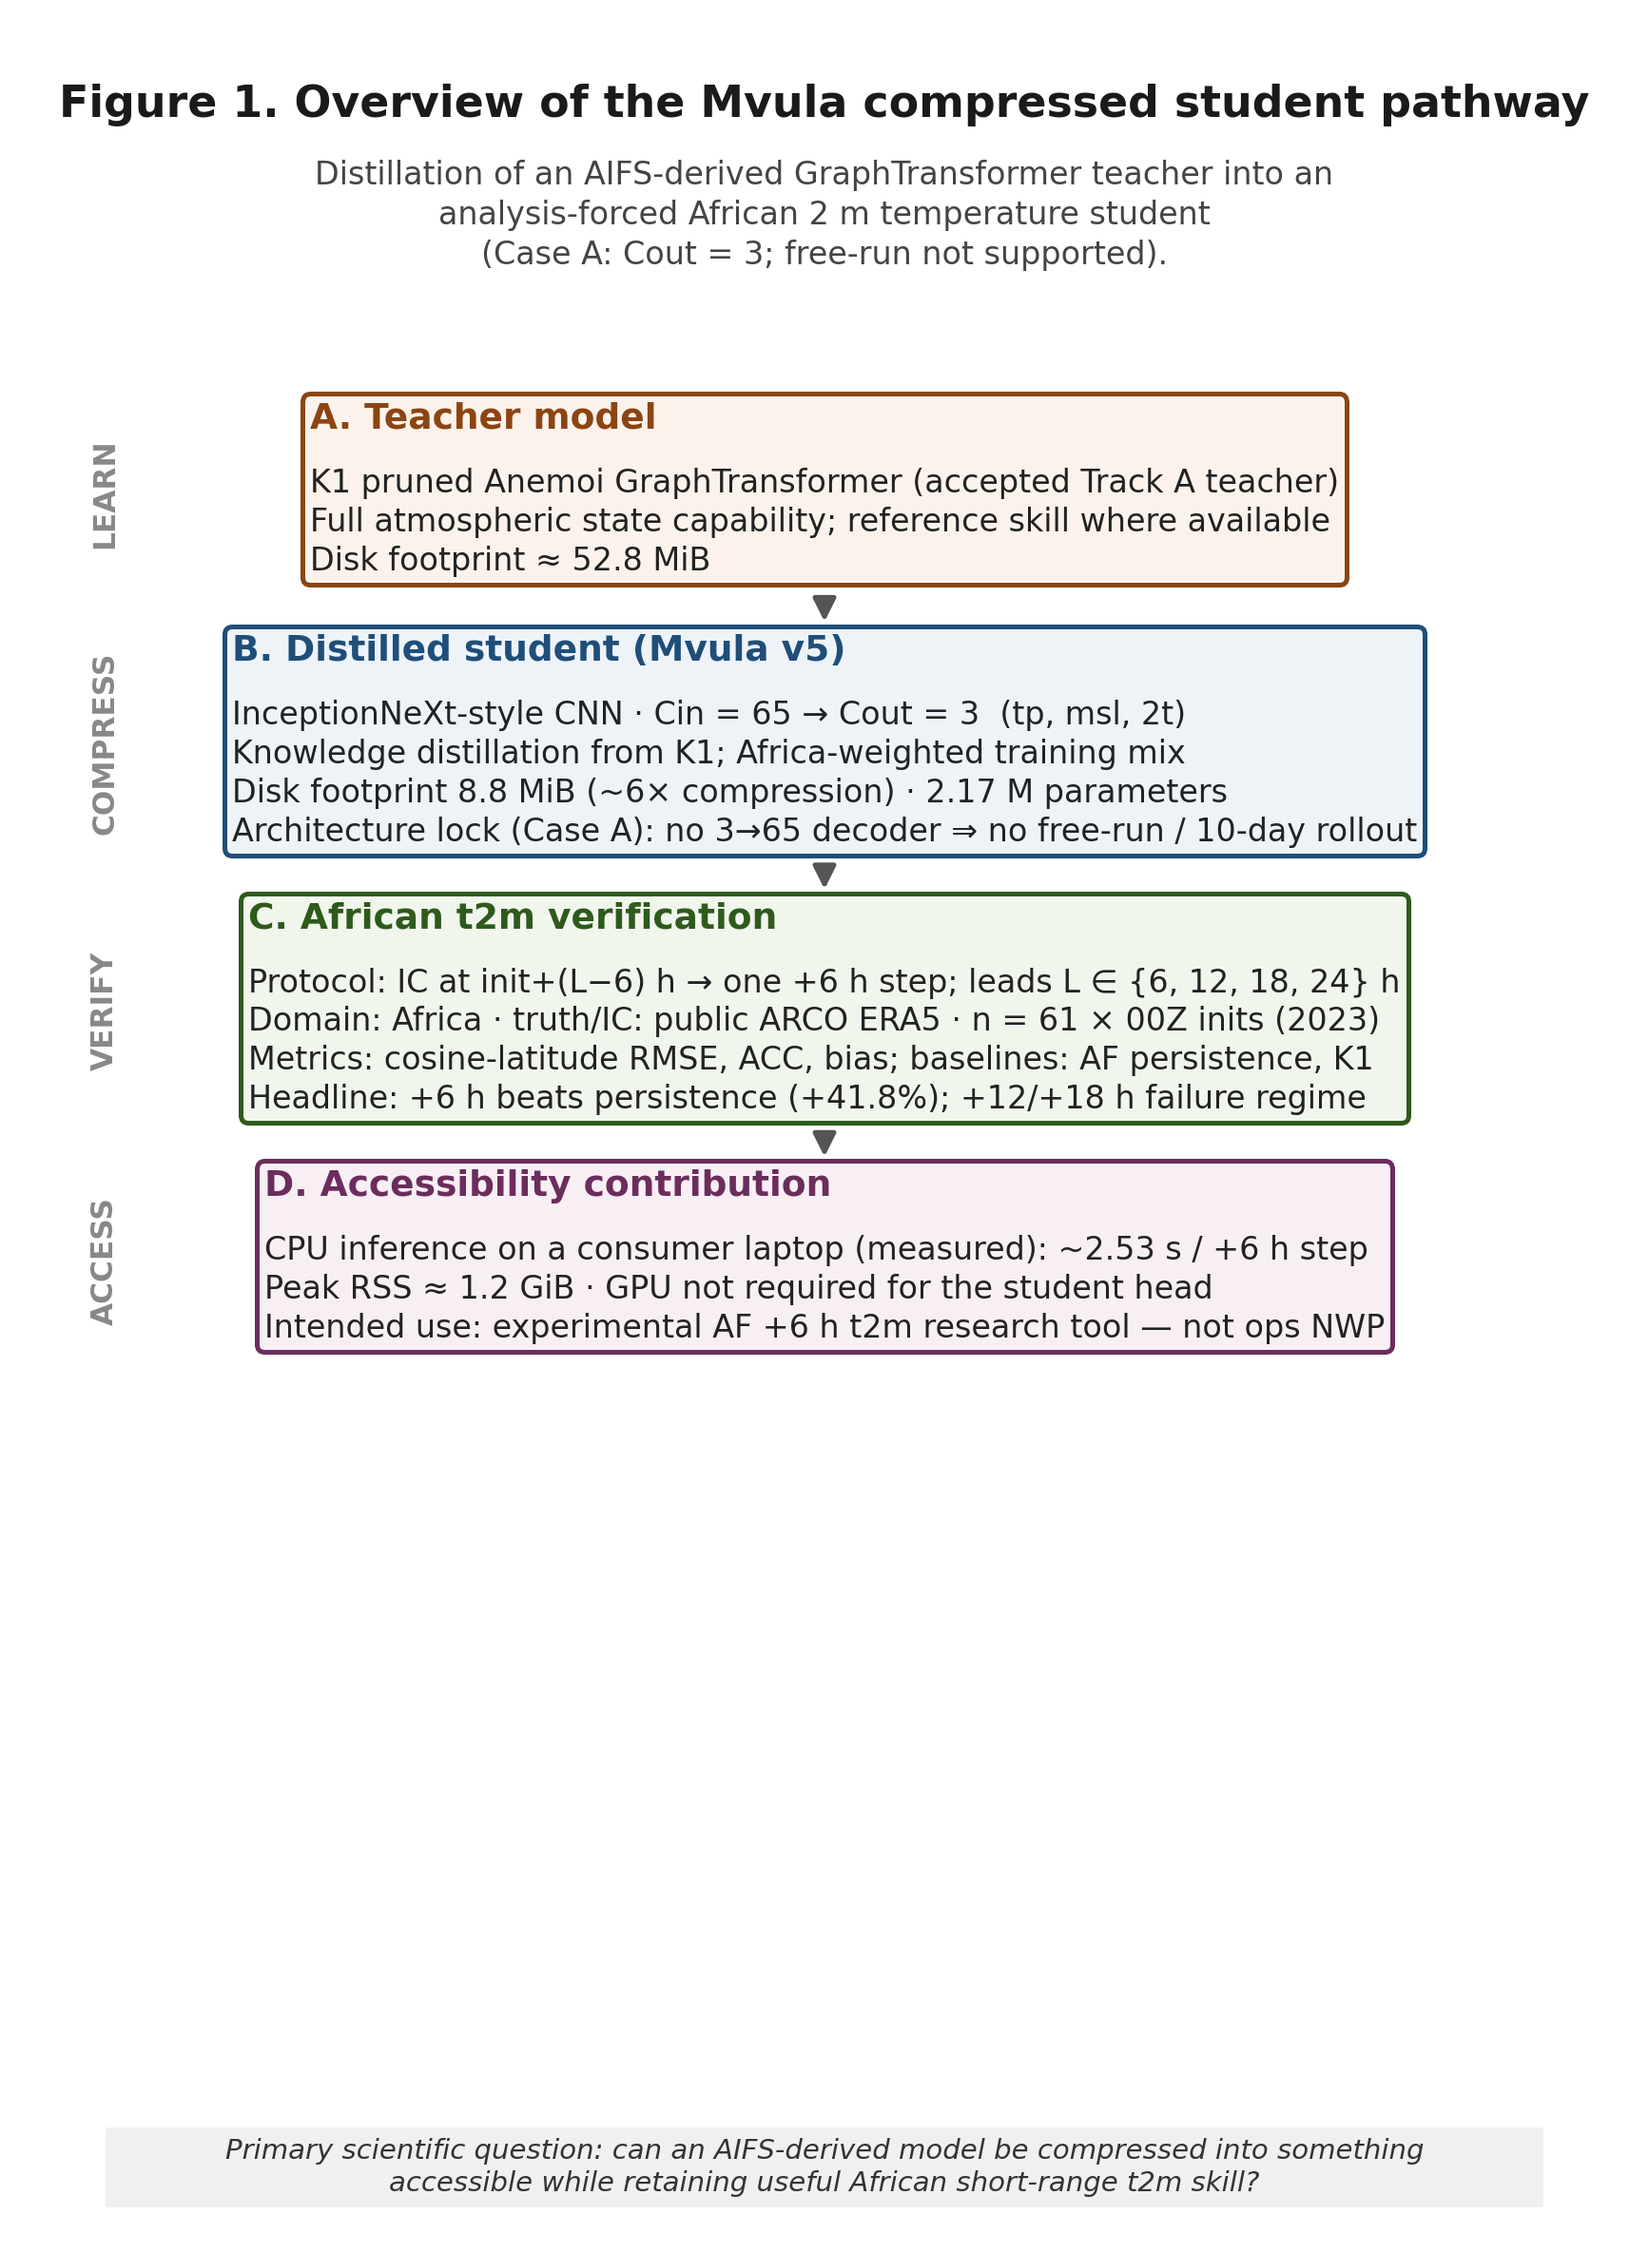
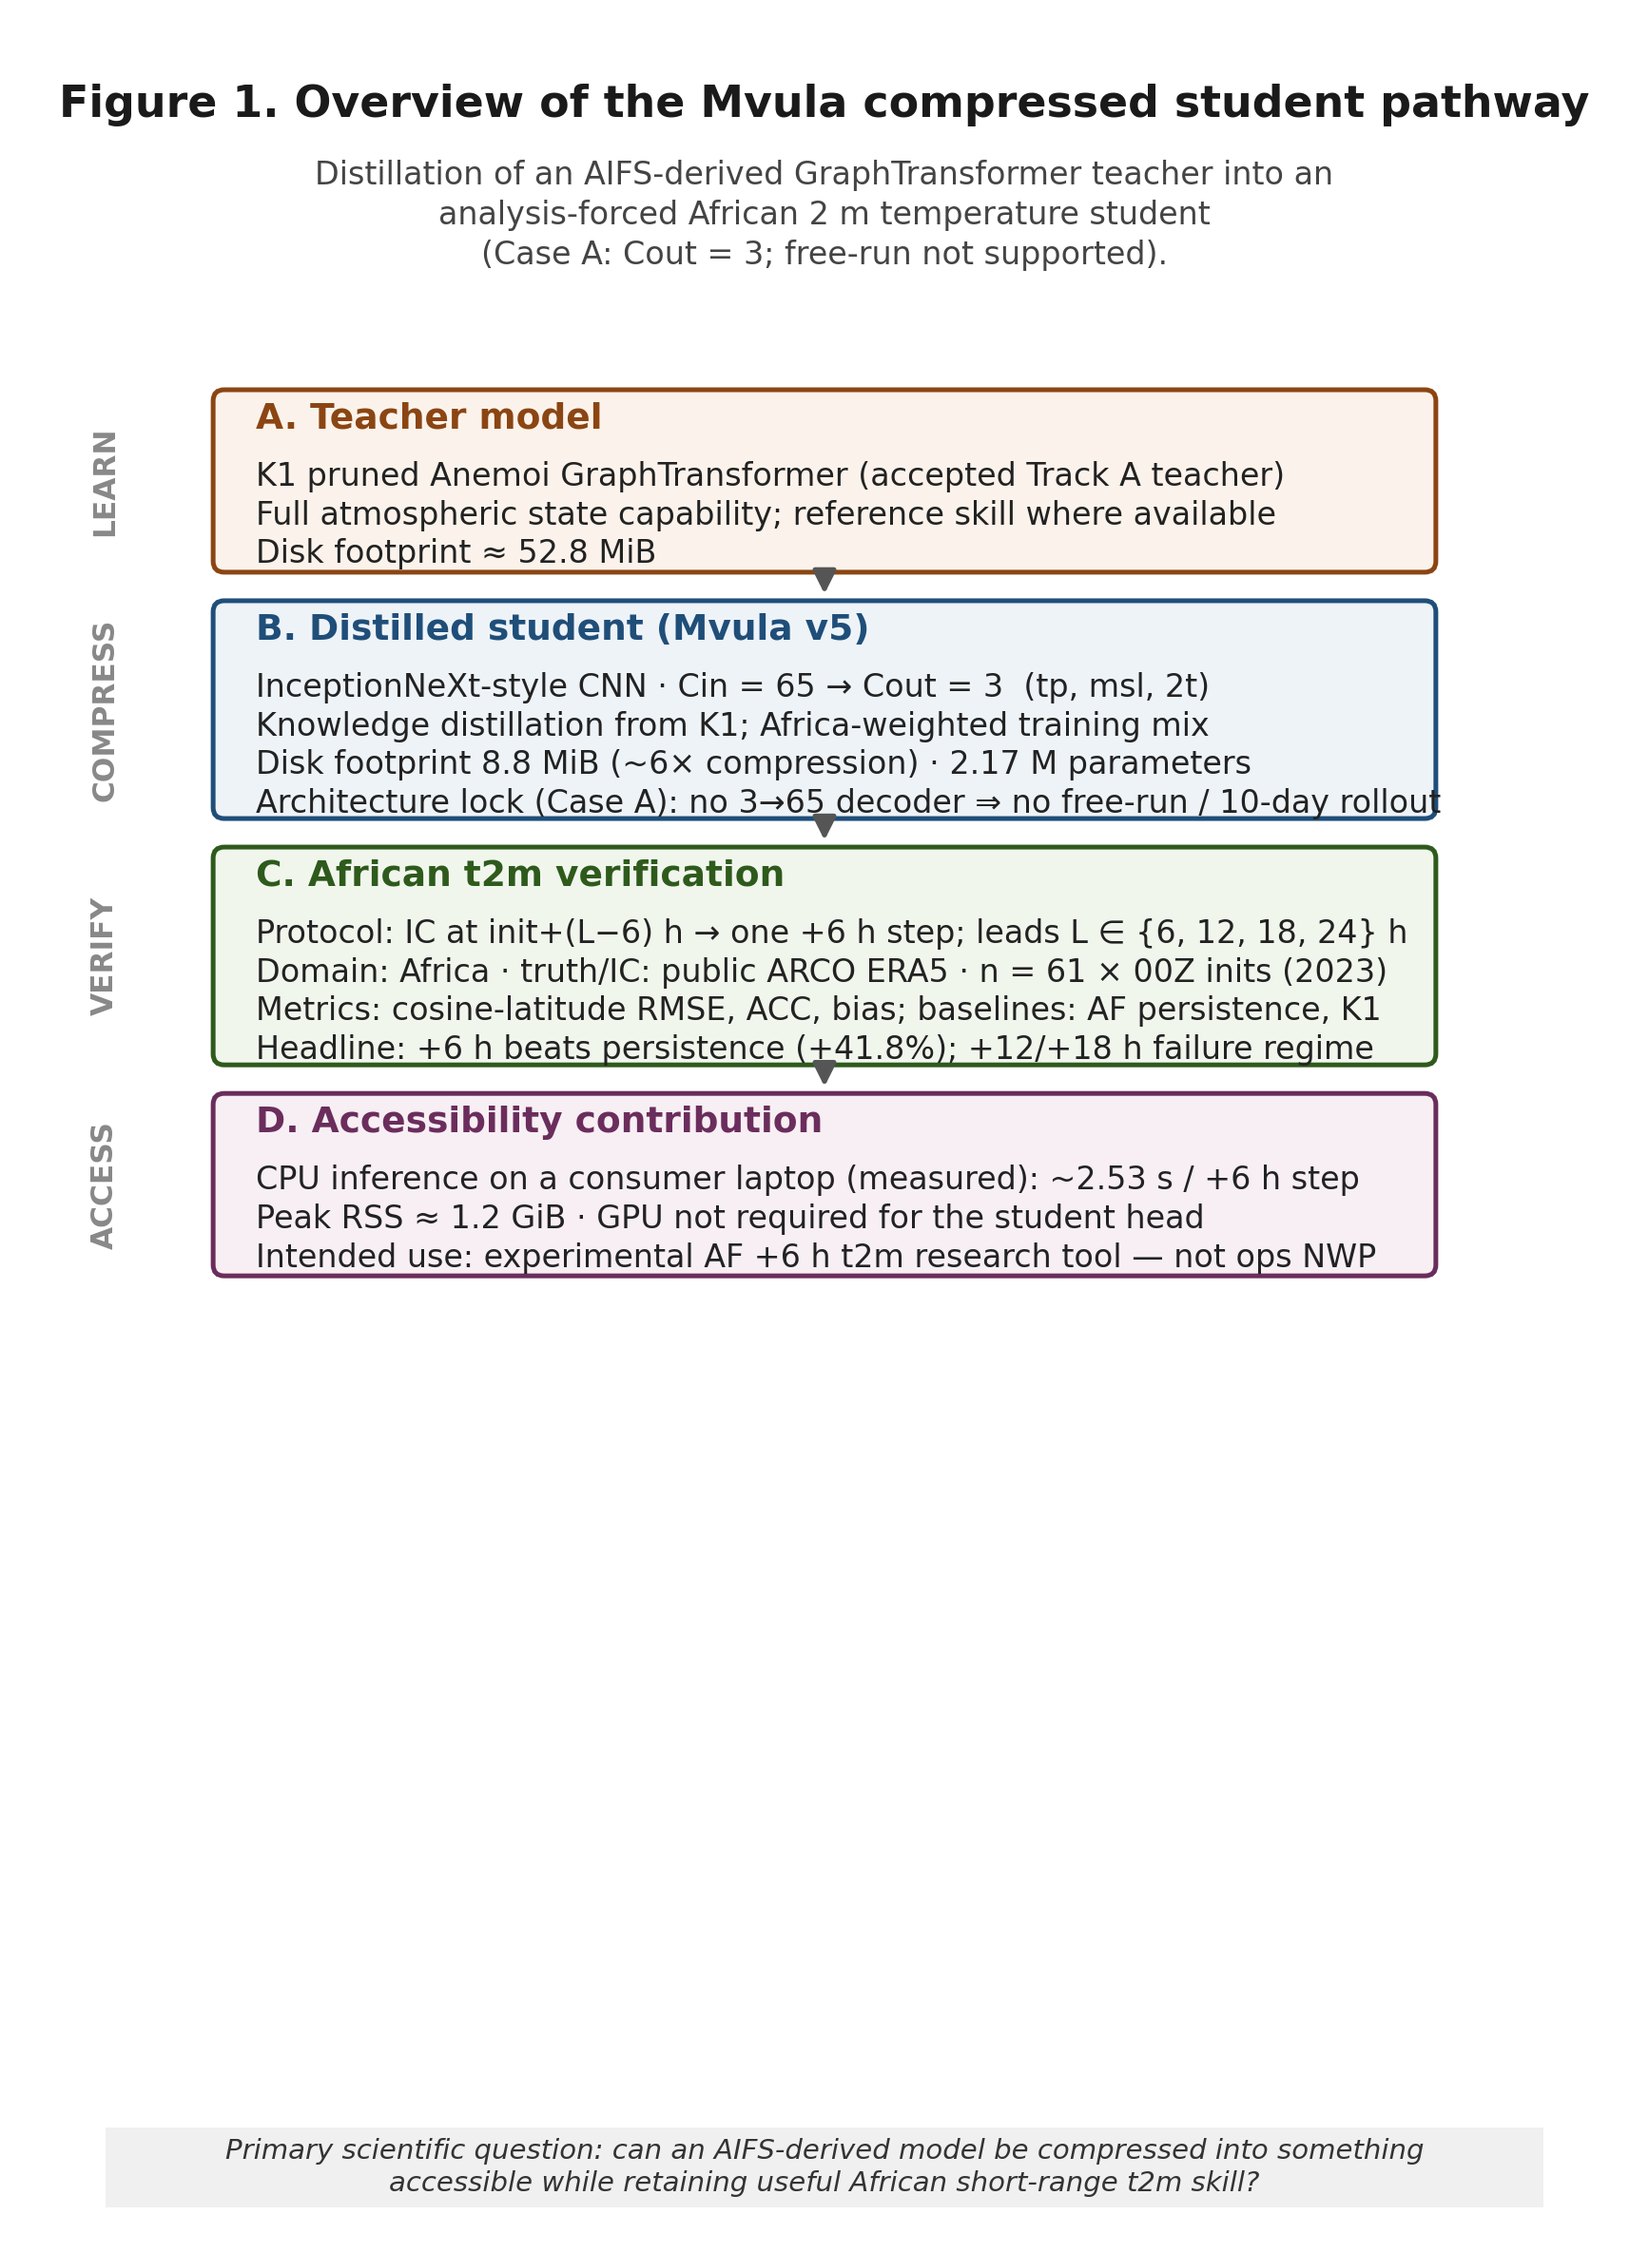
Draw Fig.1 boxes tightly around measured text to remove empty interior bottom space.

diff --git a/scripts/plot_mvula_report_fig02_fig03.py b/scripts/plot_mvula_report_fig02_fig03.py
@@ -170,11 +170,10 @@ def fig1_pipeline() -> None:
 def fig1_pipeline_publication() -> None:
     """Journal-style vertical pathway (Learn → Verify → Accessibility).
 
-    AnnotationBbox frames hug the packed text so there is no empty space
-    under the last line inside each panel.
+    Place text → measure glyphs → draw a box that hugs the text (no empty
+    interior space below the last line).
     """
-    from matplotlib.offsetbox import AnnotationBbox, TextArea, VPacker
-    from matplotlib.patches import FancyArrowPatch, Rectangle
+    from matplotlib.patches import FancyArrowPatch, FancyBboxPatch, Rectangle
 
     fig, ax = plt.subplots(figsize=(7.2, 10.0))
     ax.set_xlim(0, 7.2)
@@ -253,59 +252,66 @@ def fig1_pipeline_publication() -> None:
         ),
     ]
 
-    arrow_gap = 0.22
-    title_body_sep_pts = 8
+    x0, box_w = 0.85, 5.5
+    text_x = x0 + 0.18
+    pad = 0.04
+    title_body_gap = 0.10
+    arrow_gap = 0.20
 
-    # Build content packs (frame will hug these — no spare interior bottom space)
-    items = []
-    for phase, title, lines, edge, face in specs:
-        title_ta = TextArea(
-            title,
-            textprops=dict(color=edge, fontsize=9, fontweight="bold", family="sans-serif"),
-        )
-        body_ta = TextArea(
-            "\n".join(lines),
-            textprops=dict(color="#222222", fontsize=8, family="sans-serif", linespacing=1.3),
-        )
-        pack = VPacker(children=[title_ta, body_ta], align="left", pad=0, sep=title_body_sep_pts)
-        items.append((phase, edge, face, pack))
-
-    # Measure each framed box height in data coords
     fig.canvas.draw()
     renderer = fig.canvas.get_renderer()
     inv = ax.transData.inverted()
-    heights = []
-    for phase, edge, face, pack in items:
-        ab = AnnotationBbox(
-            pack,
-            (3.6, 5.0),
-            xycoords="data",
-            box_alignment=(0.5, 0.5),
-            frameon=True,
-            pad=0.15,
-            bboxprops=dict(boxstyle="round,pad=0.2", facecolor=face, edgecolor=edge, linewidth=1.2),
+
+    y_cursor = 8.30
+    prev_box_bot = None
+
+    for phase, title, lines, edge, face in specs:
+        t_artist = ax.text(
+            text_x,
+            y_cursor,
+            title,
+            ha="left",
+            va="top",
+            fontsize=9,
+            fontweight="bold",
+            color=edge,
+            zorder=3,
         )
-        ax.add_artist(ab)
         fig.canvas.draw()
-        bbox = ab.get_window_extent(renderer=renderer)
-        p0 = inv.transform((bbox.x0, bbox.y0))
-        p1 = inv.transform((bbox.x1, bbox.y1))
-        heights.append(abs(p1[1] - p0[1]))
-        ab.remove()
+        tb = t_artist.get_window_extent(renderer=renderer).transformed(inv)
 
-    # Stack from top; top-align each box
-    y_top = 8.30
-    ys_top = []
-    cursor = y_top
-    for h in heights:
-        ys_top.append(cursor)
-        cursor = cursor - h - arrow_gap
+        b_artist = ax.text(
+            text_x,
+            tb.y0 - title_body_gap,
+            "\n".join(lines),
+            ha="left",
+            va="top",
+            fontsize=8,
+            color="#222222",
+            linespacing=1.3,
+            zorder=3,
+        )
+        fig.canvas.draw()
+        bb = b_artist.get_window_extent(renderer=renderer).transformed(inv)
 
-    artists = []
-    for i, ((phase, edge, face, pack), y_top_i, h) in enumerate(zip(items, ys_top, heights)):
+        box_top = max(tb.y1, bb.y1) + pad
+        box_bot = min(tb.y0, bb.y0) - pad
+        ax.add_patch(
+            FancyBboxPatch(
+                (x0, box_bot),
+                box_w,
+                box_top - box_bot,
+                boxstyle="round,pad=0.015,rounding_size=0.05",
+                linewidth=1.2,
+                edgecolor=edge,
+                facecolor=face,
+                zorder=1,
+            )
+        )
+
         ax.text(
             0.28,
-            y_top_i - h / 2,
+            (box_top + box_bot) / 2,
             phase,
             ha="left",
             va="center",
@@ -313,31 +319,24 @@ def fig1_pipeline_publication() -> None:
             fontweight="bold",
             color="#888888",
             rotation=90,
+            zorder=3,
         )
-        ab = AnnotationBbox(
-            pack,
-            (3.6, y_top_i),
-            xycoords="data",
-            box_alignment=(0.5, 1.0),  # top-align: frame hugs text, no empty belly under last line
-            frameon=True,
-            pad=0.15,
-            bboxprops=dict(boxstyle="round,pad=0.2", facecolor=face, edgecolor=edge, linewidth=1.2),
-        )
-        ax.add_artist(ab)
-        artists.append((ab, y_top_i, h))
-        if i < len(items) - 1:
-            y_bot = y_top_i - h
-            y_next_top = ys_top[i + 1]
+
+        if prev_box_bot is not None:
             ax.add_patch(
                 FancyArrowPatch(
-                    (3.6, y_bot - 0.02),
-                    (3.6, y_next_top + 0.02),
+                    (3.6, prev_box_bot - 0.01),
+                    (3.6, box_top + 0.01),
                     arrowstyle="-|>",
                     mutation_scale=12,
                     linewidth=1.2,
                     color="#555555",
+                    zorder=2,
                 )
             )
+
+        prev_box_bot = box_bot
+        y_cursor = box_bot - arrow_gap
 
     ax.add_patch(Rectangle((0.35, 0.08), 6.5, 0.36, facecolor="#f0f0f0", edgecolor="none", zorder=0))
     ax.text(
@@ -357,7 +356,6 @@ def fig1_pipeline_publication() -> None:
     fig.savefig(OUT1_PUB, dpi=300, bbox_inches="tight", facecolor="white")
     plt.close(fig)
     print(f"wrote {OUT1_PUB}")
-
 
 def load_rows():
     blob = json.loads(JSON_PATH.read_text(encoding="utf-8"))
